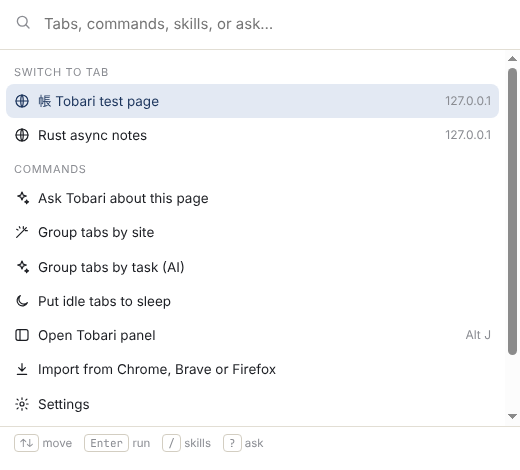
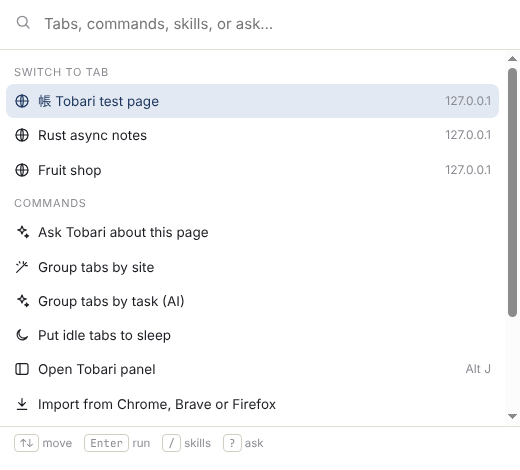
Site MCP test, dev launcher, README, DEV guide, HANDOFF
UI test now 22 checks including site tools: detect, approve, confirm, result.

Claude-Session: https://claude.ai/code/session_01XUJDAhwEa6fN4UTMjLhDAN

diff --git a/extension/src/sidepanel.ts b/extension/src/sidepanel.ts
@@ -762,7 +762,7 @@ async function detectSiteTools() {
   const box = $("#site-tools");
   box.hidden = true;
   const tab = await activeTab();
-  if (!tab?.id || !/^https:/.test(tab.url ?? "")) return;
+  if (!tab?.id || !/^(https:|http:\/\/(localhost|127\.0\.0\.1)[:/])/.test(tab.url ?? "")) return;
   let endpoint: string | null = null;
   try {
     endpoint = (await readTab(tab)).mcp;

diff --git a/extension/scripts/fixture/shop.html b/extension/scripts/fixture/shop.html
@@ -1,0 +1,3 @@
+<!doctype html>
+<html lang="en"><head><meta charset="utf-8"><title>Fruit shop</title><link rel="mcp" href="/mcp"></head>
+<body><main><h1>Fruit shop</h1><p>Ask the assistant for prices.</p></main></body></html>

diff --git a/extension/scripts/fixture/server.py b/extension/scripts/fixture/server.py
@@ -1,0 +1,55 @@
+#!/usr/bin/env python3
+import json
+import os
+import sys
+from http.server import SimpleHTTPRequestHandler, ThreadingHTTPServer
+
+ROOT = os.path.dirname(os.path.abspath(__file__))
+CALLS = []
+
+
+class H(SimpleHTTPRequestHandler):
+    def __init__(self, *a, **k):
+        super().__init__(*a, directory=ROOT, **k)
+
+    def log_message(self, *a):
+        pass
+
+    def do_POST(self):
+        if self.path != "/mcp":
+            self.send_error(404)
+            return
+        msg = json.loads(self.rfile.read(int(self.headers["Content-Length"])))
+        method = msg.get("method")
+        if "id" not in msg:
+            self.send_response(202)
+            self.end_headers()
+            return
+        if method == "initialize":
+            result = {"protocolVersion": "2025-06-18", "capabilities": {"tools": {}}, "serverInfo": {"name": "fruit-shop", "version": "1"}}
+        elif method == "tools/list":
+            result = {"tools": [{"name": "get_price", "description": "Price of a fruit in yen", "inputSchema": {"type": "object", "properties": {"fruit": {"type": "string"}}, "required": ["fruit"]}}]}
+        elif method == "tools/call":
+            CALLS.append(msg["params"])
+            fruit = msg["params"]["arguments"].get("fruit", "")
+            result = {"content": [{"type": "text", "text": f"{fruit}: 120 yen (calls so far: {len(CALLS)})"}]}
+        else:
+            body = {"jsonrpc": "2.0", "id": msg["id"], "error": {"code": -32601, "message": "no such method"}}
+            return self.reply(body, sse=False)
+        self.reply({"jsonrpc": "2.0", "id": msg["id"], "result": result}, sse=method == "tools/call")
+
+    def reply(self, body, sse):
+        data = json.dumps(body)
+        self.send_response(200)
+        self.send_header("Mcp-Session-Id", "test-session")
+        if sse:
+            self.send_header("Content-Type", "text/event-stream")
+            self.end_headers()
+            self.wfile.write(f"event: message\ndata: {data}\n\n".encode())
+        else:
+            self.send_header("Content-Type", "application/json")
+            self.end_headers()
+            self.wfile.write(data.encode())
+
+
+ThreadingHTTPServer(("127.0.0.1", int(sys.argv[1])), H).serve_forever()

diff --git a/core/tests/fake_llama_server.py b/core/tests/fake_llama_server.py
@@ -72,6 +72,11 @@ def script(msgs):
             ref = int(m.group(1)) if m else 1
             return ['I will press it.\n', json.dumps({"tool": "click", "args": {"ref": ref, "label": "Press me"}, "why": "You asked me to press the button."})]
         return [json.dumps({"tool": "read_page", "args": {}, "why": "I need to see the page first."})]
+    if "MCP_TEST" in convo:
+        if "Result of mcp.get_price" in convo:
+            m = re.search(r"mango: [^\n(]*", convo)
+            return [f"The shop says {m.group(0).strip() if m else 'nothing'}."]
+        return [json.dumps({"tool": "mcp.get_price", "args": {"fruit": "mango"}, "why": "You asked for the mango price."})]
     if "INJECT_TEST" in convo:
         if "BLOCKED" in convo:
             return ["The page told me to send a code to another site. Tobari blocked that step, and I did not do it."]

diff --git a/HANDOFF.md b/HANDOFF.md
@@ -1,0 +1,106 @@
+# Tobari v2 handoff
+
+Updated 2026-10-30. Branch `claude/dreamy-albattani-pl8bw2` on kaorii-ako/tobari.
+
+## Where things stand
+
+| Phase | State |
+|---|---|
+| 0. Engine gate | Probe page and script done and verified in the cloud container. Engine picked: B, CEF Chrome style (Kao said "whatever works best"). Bazzite runs still missing. |
+| 1. Shell | UI done as an extension (vertical tabs, workspaces, command bar, new tab, import, tracker blocking, crash flow). CEF shell code written, **never compiled**. Split view is a two-window fallback. |
+| 2. AI sidecar | Done and tested with a fake llama-server: on-demand start, idle unload, loopback plus a CSPRNG token, native messaging, model manager with SHA-256, five provider kinds, keyring storage, destination in the chat header, two-stage injection guard. |
+| 3. Agent | Done and tested in real Chromium: `@` context, tools with confirm cards and a per-site allowlist, roles, skill loader plus 10 skills, prompt-to-skill, Markdown memory, site MCP, `tobari` CLI. |
+| 4. Bench | Harness done. One smoke run in the cloud container (Chromium vs Chromium + Tobari only). No Bazzite numbers yet. |
+| 5. Packaging | Flatpak manifest is a draft with `PIN-…` placeholders. AppImage script written, not run. |
+
+## Tests that pass today
+
+- `cargo test`: 36 unit tests (guard, providers, skills, memory, import, framing).
+- `core/tests/e2e.py`: 18 checks against the real `tobari` binary over native messaging and a
+  fake llama-server. It verifies the bearer token, the 127.0.0.1 bind, idle unload killing the
+  process, parts for messages over 1 MB, the CLI reaching the browser through the control socket,
+  and socket permissions.
+- `extension/scripts/ui-e2e.mjs`: 22 checks in real Chromium with the real core. They cover the
+  pinned extension ID, chat with the destination shown, `@` picker, Markdown with 帳 and ภาษาไทย,
+  the click confirm flow, a prompt injection that tries to leak a code through a URL being
+  blocked, `/` skills, Chrome profile import, tracker ruleset, command bar, `tobari tabs`, and site
+  MCP detect, approve, confirm and result. Screenshots land in `docs/screenshots/`.
+- `npm test`: Markdown sanitizer and model-name formatting.
+
+## Measured so far
+
+The cloud container (Xeon 2.1 GHz, Xvfb, software GL, `--no-sandbox` because it runs as root) is
+not target hardware. Full table in `docs/bench.md`.
+
+- Chromium 153 idle: 468 MiB PSS. With the Tobari extension and core: 484 MiB (+16 MiB).
+- The `tobari` core process: 2.2 MiB PSS at idle, 2.5 MiB with 25 tabs.
+- Sleeping 24 of 25 tabs saved 54 MiB (894 → 840). The corpus is one site, so Chromium already
+  shares one renderer across those tabs. Expect a bigger saving on real multi-site pages, but it's
+  not measured yet.
+
+## Next, in order
+
+1. **Kao: run the font probe on the desktop.** Commands are in `phase0/README.md`. Send back each
+   `report.md` and `headless.png`. If Flatpak Chrome and the CEF sample show boxes while Firefox
+   doesn't, and strace shows the CJK file never opened, switch the engine to C (Gecko) before more
+   shell work. This is the exit condition in `docs/engine-decision.md`.
+2. **Kao: allow `cef-builds.spotifycdn.com` in the cloud environment's network settings** (and
+   `download.gnome.org`, `github.com` release assets, `huggingface.co` if Flatpak and model work
+   should happen in the cloud). Then compile `shell/`, fix whatever the CEF API disagrees with,
+   commit `shell/cef.lock`.
+3. Try Tobari today on Bazzite with `scripts/dev-run.sh` inside distrobox (see `docs/DEV.md`), then
+   `tobari setup` for the real Vulkan llama-server and Qwen3-4B. Check actual VRAM and that the
+   unload frees it (`nvtop` or `radeontop`).
+4. Run `bench/run.py` on the desktop with Firefox, Zen, Brave, Chrome and Tobari, using
+   `bench/pages.txt` (real sites) and `--discard`. Only these numbers count against the "at or below
+   Brave" target.
+5. Fill the Flatpak pins, build it, then run the probe against the Flatpak build.
+6. Linear: only Phase 0 to 2 exist as KAO-62, KAO-63 and KAO-64. Creating Phase 3 to 5 was
+   cancelled mid-call. Create them, or say if you'd rather track in HANDOFF only.
+
+## Open risks
+
+- **Japanese tofu on Chromium builds.** Root cause unknown. Both Chromium builds on Bazzite showed
+  it. B inherits it if it's Chromium-wide.
+- **The CEF shell has never compiled.** Expect API mismatches against whichever CEF version
+  `cef.lock` pins. `--load-extension` should work on unbranded CEF; if it doesn't, load the
+  extension through the extensions directory instead.
+- **Split view** is two windows side by side. Wayland compositors ignore client window placement,
+  so on KDE and GNOME Wayland the user has to tile them. Real split view needs either the shell
+  (two browser views in one window) or Chromium's own split-view feature, once confirmed in the
+  pinned CEF.
+- **Small-model tool calls.** The agent protocol is one JSON line per step, and refs are numbered so
+  a 4B model doesn't have to write selectors. Only a scripted fake model has been tested. Qwen3-4B
+  may need prompt tuning.
+- **History import** loses visit dates. `chrome.history.addUrl` can't set them. Fixing that needs
+  the shell to write the profile's History database before first launch.
+- **Tracker blocking** is about 170 domains, nowhere near uBlock Origin's lists. It's honest about
+  that in settings. Shipping full lists means converting EasyList to DNR rules at build time.
+- **Flatpak native messaging to the host** is impossible by design. The browser and the core must
+  ship in the same Flatpak (which the manifest does).
+- **Thai word breaking** in memory search uses character bigrams, not a dictionary. It finds
+  substrings and doesn't rank by words.
+- **The extension private key** used to derive the pinned ID was not kept. Unpacked loading only
+  needs the public key in `manifest.json`. A Chrome Web Store listing would get its own ID; the
+  native host manifest would then need both IDs.
+
+## Resume
+
+```bash
+git clone https://github.com/kaorii-ako/tobari && cd tobari && git checkout claude/dreamy-albattani-pl8bw2
+```
+
+```bash
+cargo test --manifest-path core/Cargo.toml && cargo build --manifest-path core/Cargo.toml && python3 core/tests/e2e.py
+```
+
+```bash
+npm ci --prefix extension && npm run build --prefix extension && npm test --prefix extension
+```
+
+```bash
+cd extension && xvfb-run -a node scripts/ui-e2e.mjs
+```
+
+v1 is under `v1-archive/` (core, extension, SECURITY.md, packaging notes). `TOBARI_PROMPT.md` was
+not in this repo, so it was not archived; if it lives elsewhere, copy it into `v1-archive/`.

diff --git a/README.md b/README.md
@@ -1,0 +1,68 @@
+# Tobari 帳
+
+A web browser for Linux with an assistant that runs on your own GPU.
+
+Tobari's assistant reads the page you're on, your open tabs, PDFs and files, and answers with
+a local model (Qwen3 4B Instruct on llama.cpp, Vulkan). Prompts stay on your computer unless you
+add a cloud provider with your own API key, and the header of every chat says which one is in use.
+There is no Tobari server anywhere in between.
+
+<p>
+<img src="docs/screenshots/panel-answer.png" width="280" alt="Panel answering about a page in Japanese and Thai">
+<img src="docs/screenshots/panel-confirm.png" width="280" alt="The assistant asking before it clicks">
+<img src="docs/screenshots/panel-blocked.png" width="280" alt="A prompt injection on the page being blocked">
+</p>
+
+## What works now
+
+- Vertical tabs with tab groups, workspaces, tab search, and tabs that go to sleep when idle.
+- Command bar (Alt+K): switch tabs, run commands and skills, search, or ask.
+- Ask panel (Alt+J). Type `@` to add the current tab, all tabs, selected text, a picked element, a
+  screenshot, bookmarks, history, memory notes, files or PDFs. Type `/` to run a skill.
+- An agent that can read, click, type, navigate, extract tables and save files. Every step that
+  changes something shows a preview and waits for your OK. You can allow routine steps per site;
+  buying, sending, deleting and site tools always ask.
+- Prompt injection defense in two stages. Page content is wrapped as untrusted data and can never
+  trigger a tool on its own. Each proposed step is then checked against your request: rules block
+  password fields, non-http URLs and steps that would leak page data to another site, and an
+  optional second model pass reviews the rest.
+- Four roles (Research, Operator, Writer, Analyst) and 10 built-in skills. A skill is a folder with
+  a `SKILL.md` in `~/.config/tobari/skills`, and any prompt can be saved as one.
+- Memory is plain Markdown in `~/.local/share/tobari/memory`: searchable (Japanese and Thai
+  included), exportable, never uploaded.
+- Providers: local llama.cpp, Ollama, any OpenAI-compatible endpoint, Anthropic, Google. Keys go in
+  GNOME Keyring or KWallet. Model files are checked against a pinned SHA-256 before loading.
+- The model starts when you ask something and unloads after 5 idle minutes to free VRAM.
+- Import from Chrome, Chromium, Brave, Edge, Vivaldi, Firefox and Zen, Flatpak installs included.
+- Sites can offer tools to the assistant (MCP); Tobari asks before connecting and before every call.
+- Third-party tracker blocking, local crash reports that are only sent if you choose to.
+- `tobari` CLI: `open`, `tabs`, `sleep`, `chat`, `skill run --url`, `memory search`, `models`,
+  `providers`, `import`.
+
+## Status
+
+Engine: CEF in Chrome style (see `docs/engine-decision.md`). The shell code in `shell/` has not
+been compiled yet; until it is, run Tobari as Chromium with the Tobari extension
+(`scripts/dev-run.sh`, see `docs/DEV.md`). Japanese and Thai rendering on Bazzite is still an open
+risk until `phase0/probe.sh` runs on the target machines. `HANDOFF.md` has the full list.
+
+## Layout
+
+```
+core/       tobari: CLI, native messaging host, llama.cpp sidecar, providers, guard, skills, memory, import
+extension/  the UI: side panel, new tab, command bar, settings; also the agent loop
+skills/     the 10 first-party skills
+shell/      CEF Chrome-style browser shell (C++)
+bench/      memory benchmark harness (PSS over the whole process tree)
+phase0/     Japanese/Thai font probe for the engine decision
+packaging/  Flatpak manifest (draft), AppImage script, desktop entry
+docs/       engine decision, benchmark results, dev guide, screenshots
+v1-archive/ the previous Tobari, kept for reference
+```
+
+## Security
+
+`SECURITY.md` in `v1-archive/` still describes the sidecar model, which v2 keeps: llama-server binds
+127.0.0.1 only with a fresh 32-byte token from the OS CSPRNG, the token never leaves the core, and the
+extension talks to the core over native messaging, never over localhost HTTP. v2 adds a private
+control socket (`$XDG_RUNTIME_DIR/tobari/control.sock`, mode 0700, peer UID checked) for the CLI.

diff --git a/docs/DEV.md b/docs/DEV.md
@@ -1,0 +1,92 @@
+# Developing Tobari on Bazzite
+
+Build tools live in a distrobox container, never on the host. Nothing here needs `sudo` on the
+host or `rpm-ostree`.
+
+## One-time container setup
+
+```bash
+distrobox create --name tobari --image registry.fedoraproject.org/fedora-toolbox:42
+```
+
+```bash
+distrobox enter tobari
+```
+
+Inside the container:
+
+```bash
+sudo dnf install -y git gcc gcc-c++ cmake ninja-build pkgconf nodejs npm python3 strace chromium libsecret vulkan-loader-devel glslc
+```
+
+```bash
+curl --proto '=https' --tlsv1.2 -sSf https://sh.rustup.rs | sh -s -- -y
+```
+
+## Run Tobari today (Chromium + Tobari extension)
+
+Until the CEF shell is built, this is the fastest way to use Tobari. It runs the container's
+Chromium with Tobari's own profile in `~/.config/tobari/browser`, loads the extension, and
+registers the core for native messaging.
+
+```bash
+scripts/dev-run.sh
+```
+
+Then get the model runtime and the default model (asks before downloading, about 2.4 GB):
+
+```bash
+core/target/release/tobari setup
+```
+
+Open the panel with Alt+J, the command bar with Alt+K.
+
+Do not use Flatpak Chrome or Flatpak Chromium for this: their sandbox cannot start a program
+outside it, so native messaging to `tobari` fails.
+
+## Build the CEF shell
+
+Needs network access to `cef-builds.spotifycdn.com`. The first configure pins the current stable
+CEF in `shell/cef.lock`; commit that file.
+
+```bash
+cmake -S shell -B shell/build -G Ninja -DCMAKE_BUILD_TYPE=Release
+```
+
+```bash
+cmake --build shell/build
+```
+
+```bash
+shell/build/Release/tobari-shell
+```
+
+## Tests
+
+```bash
+cargo test --manifest-path core/Cargo.toml
+```
+
+```bash
+cargo build --manifest-path core/Cargo.toml && python3 core/tests/e2e.py
+```
+
+```bash
+npm test --prefix extension
+```
+
+The UI test drives real Chromium with Playwright against the real core and a scripted fake model:
+
+```bash
+cd extension && npm install --no-save playwright && npx playwright install chromium && xvfb-run -a node scripts/ui-e2e.mjs
+```
+
+## Benchmarks
+
+```bash
+python3 bench/run.py --browsers tobari-ext,firefox,zen,brave,chrome --counts 0,5,10,25 --discard
+```
+
+It prepends a dated table to `docs/bench.md` and writes per-process numbers to
+`bench/results/raw/`. Close other browsers first; numbers are PSS summed over each browser's
+process tree.
